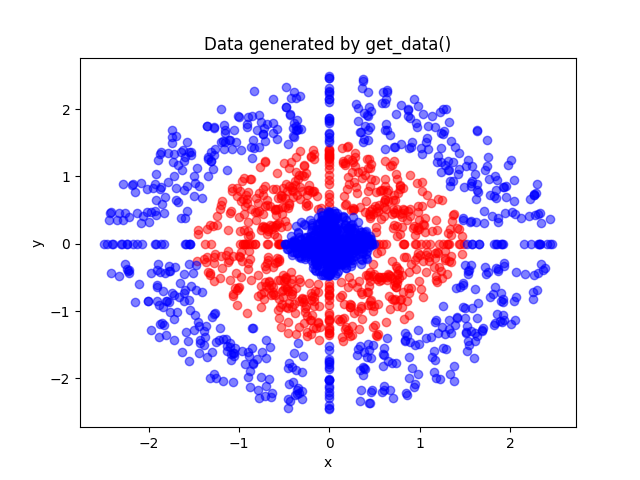
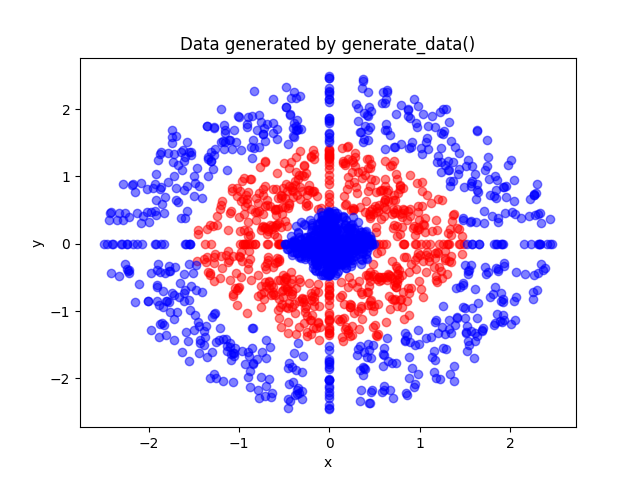
Correct plot title

Changed region(s): [[0.2812, 0.0625, 0.75, 0.125]]

diff --git a/plot_data.py b/plot_data.py
@@ -30,5 +30,5 @@ def plot_data():
 
     plt.xlabel("x")
     plt.ylabel("y")
-    plt.title("Data generated by get_data()")
+    plt.title("Data generated by generate_data()")
     plt.savefig("data.png")
